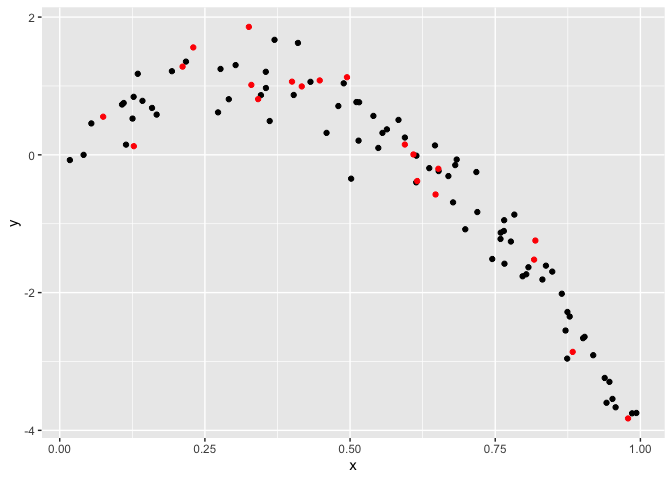
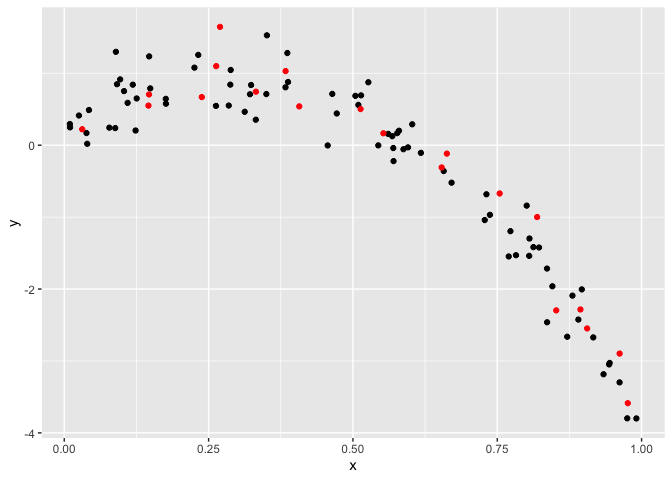
Finished reviewing cross-validation lecture.

diff --git a/Cross-Validation.md b/Cross-Validation.md
@@ -3,25 +3,40 @@ Cross Validation
 Lectured by Jeff Goldsmith
 2022-11-15
 
-# Model selection
+### Model selection
 
 When you have lots of variables, you have to choose which ones will go
-in your model.
+in your model. It is best that we have a clear hypothesis with known
+confounders.
 
-For nested models, you have tests \* You have to be worried about
-multiple comparisons and “fishiing”
+For **nested** models, you have tests \* You have to be worried about
+multiple comparisons and “fishing”
 
-For non-nested models, you don’t have tests \* AIC/BIC/etc are
+For **non-nested** models, you don’t have tests \* AIC/BIC/etc are
 traditional tools \* To understand what
 [AIC](https://www.scribbr.com/statistics/akaike-information-criterion/)
 is, click on it. \* Balance goodness of fit with “complexity”
 
-# Cross validation
+### Cross validation
 
-Randomly split your data into “training” and “testing” - “Training” is
-data you use to build your model - “Testing” is data you use to evaluate
-out-of-sample fit - Exact ratio depends on data size, but preferably
+Ideally, we should build our model with the dataset we have. Then, go
+out and a new data. Confirm that the model we build “works” for the new
+data. But that does not happen in real life.
+
+So what do we do?
+
+Randomly split your data into two sets - “training” and “testing” -
+“Training” is data you use to build your model - “Testing” is data you
+use to evaluate out-of-sample fit, in other words, to check if the model
+is generalizable. - Exact ratio depends on data size, but preferably
 80/20
+
+We evaluate using *root mean squared error* (***RMSE***) - basically
+asking how far is my predicted value from the true value using the
+dataset that has nothing to do with building the model at the first
+place. \* Small *RMSE* is better, meaning the model is good.
+
+## Cross validation “*by hand*”
 
 ``` r
 # Create a dataframe with 100 random nonlinear numbers (x-variable) and a y-variable that depends on x-variable.
@@ -40,9 +55,16 @@ nonlin_df %>%
 ![](Cross-Validation_files/figure-gfm/unnamed-chunk-1-1.png)<!-- -->
 
 ``` r
+# Random take 80 observations from the "nonlin_df" dataset to make a training set to build a model:
 train_df = sample_n(nonlin_df, 80)
+
+# Create a testing set using the remaining 20 observations from the "nonlin_df" dataset:
 test_df = anti_join(nonlin_df, train_df, by = "id")
+# anti_join kinda join "nonlin_df" & "train_df" together but whatever "id" is overlapped (occurred in both datasets) will be removed.
 ```
+
+Just to show the overlay of the “*training*” dataset (black dots) and
+the “*testing*” dataset (red dots).
 
 ``` r
 train_df %>% 
@@ -53,17 +75,17 @@ train_df %>%
 
 ![](Cross-Validation_files/figure-gfm/unnamed-chunk-2-1.png)<!-- -->
 
-Let’s try to fit three models.
+Let’s try to fit three models on the training dataset.
 
 ``` r
 linear_mod = lm(y ~ x, data = train_df)
 smooth_mod = gam(y ~ s(x), data = train_df)
-wiggly_mod = gam(y ~ s(x, k = 30), sp = 10e-6, data = train_df)
+wiggly_mod = gam(y ~ s(x, k = 30), sp = 10e-6, data = train_df) # k & sp will give us a wiggly line.
 ```
 
 ``` r
 train_df %>% 
-  add_predictions(linear_mod) %>% 
+  add_predictions(linear_mod) %>% # create a column with the prediction values
   ggplot(aes(x = x, y = y)) +
   geom_point() +
   geom_line(aes(y = pred), color = "red")
@@ -91,40 +113,79 @@ train_df %>%
 
 ![](Cross-Validation_files/figure-gfm/unnamed-chunk-4-3.png)<!-- -->
 
-Let’s make predictions and compute Root Mean Square Errors (RMSEs).
+Among these 3 models, which of them is the best? Use RMSE to find out!
+
+Use “*testing*” dataset to compute RMSE and test which model is the
+best:
 
 ``` r
 rmse(linear_mod, test_df)
 ```
 
-    ## [1] 0.8524094
+    ## [1] 0.7629767
 
 ``` r
 rmse(wiggly_mod, test_df)
 ```
 
-    ## [1] 0.3630194
+    ## [1] 0.3803077
 
 ``` r
 rmse(smooth_mod, test_df)
 ```
 
-    ## [1] 0.3542663
+    ## [1] 0.3067936
 
 ``` r
 # Lower values mean better. We want lower prediction error!
 ```
 
-Is this error prediction due to chance or it’s significant?
+Smooth model has the lowest RMSE. But is this error prediction due to
+chance or it’s significant?
 
-## Can we iterate?
+Let’s reiterate this process over and over again to find out!
+
+## Cross Validation using `modelr`
+
+`crossv_mc` performs the training / testing split multiple times and
+stores the datasets using list columns.
 
 ``` r
 cv_df = 
-  crossv_mc(nonlin_df, 100) %>% 
+  crossv_mc(nonlin_df, 100) %>% # cross validate the "nonlin_df" 100 times
+  # convert to tibble for easier manipulation
   mutate(
     train = map(train, as_tibble),
     test = map(test, as_tibble)) %>% 
+  # create 3 models to each training/testing set:
   mutate(
-    linear_fits = map(.x = train, ~lm(y ~ x, data = .x)))
+    linear_fits = map(.x = train, ~lm(y ~ x, data = .x)),
+    smooth_fits = map(.x = train, ~gam(y ~ s(x), data = .x)),
+    wiggly_fits = map(.x = train, ~gam(y ~ s(x, k = 30), sp = 10e-6, data = .x))) %>% 
+  mutate(
+    rmse_linear = map2_dbl(.x = linear_fits, .y = test, ~rmse(model = .x, data = .y)),
+    rmse_smooth = map2_dbl(.x = smooth_fits, .y = test, ~rmse(model = .x, data = .y)),
+    rmse_wiggly = map2_dbl(.x = wiggly_fits, .y = test, ~rmse(model = .x, data = .y)))
 ```
+
+Now plot the distribution of RMSE values for each model.
+
+``` r
+cv_df %>% 
+  select(starts_with("rmse")) %>% 
+  pivot_longer(
+    everything(),
+    names_to = "model", 
+    values_to = "rmse",
+    names_prefix = "rmse_") %>% 
+  mutate(model = fct_inorder(model)) %>% 
+  ggplot(aes(x = model, y = rmse)) + geom_violin()
+```
+
+![](Cross-Validation_files/figure-gfm/unnamed-chunk-7-1.png)<!-- -->
+Repeating the training/testing split is helpful – now we get a sense of
+variance in prediction error and can compare prediction error
+distributions across methods. The smooth fit is a clear winner!
+
+It’s worth remembering, though, that this isn’t testing a null
+hypothesis and there aren’t p-values as a result.
